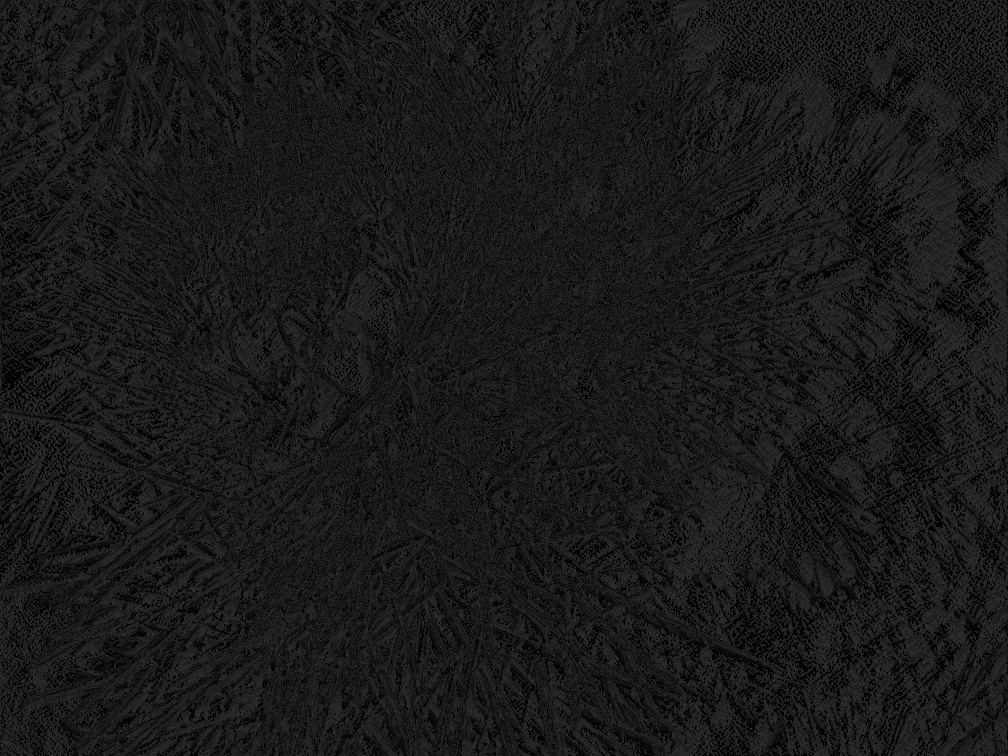
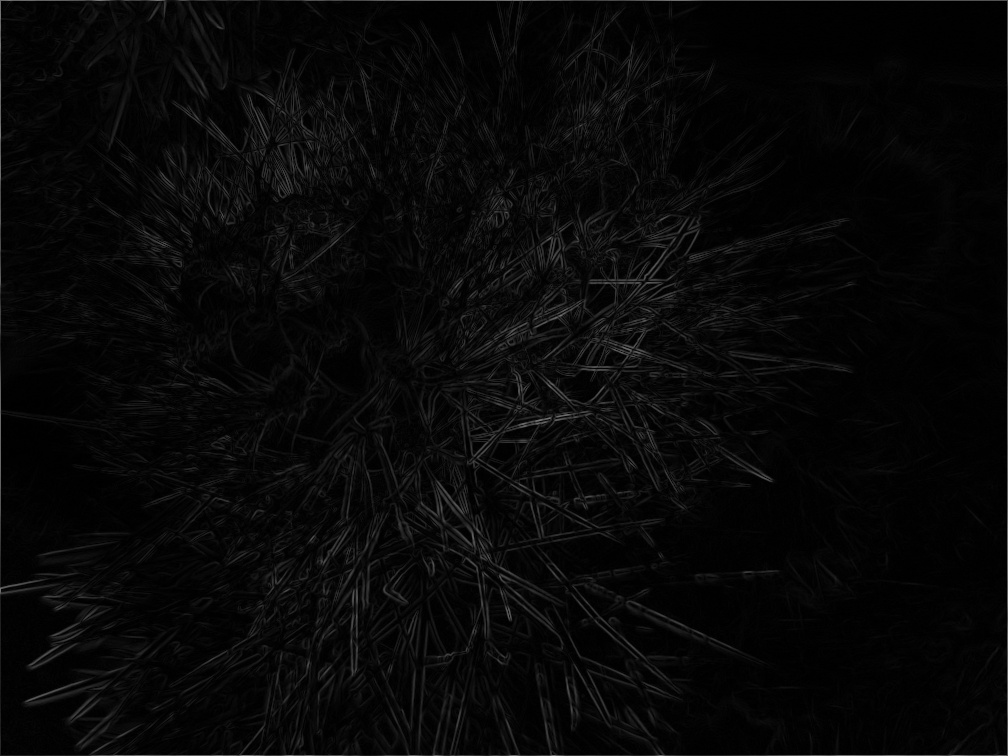
feat: add ex8

diff --git a/homework1/ex8.py b/homework1/ex8.py
@@ -2,29 +2,39 @@ import cv2
 import numpy as np
 import os
 import math
-from ex1 import convolution
+from ex6 import sobel_image
+from ex7 import bilinear_interpolation
 os.chdir('C:\\Projects\\ITS8030\\homework1')
 """
 Task 8: Finding edge peaks
-
-Implement the function
-find_peaks_image(image : np.ndarray, thres : float, in_place : bool = False) -> np.ndarray
-to find the peaks of edge responses perpendicular to the edges. The edge magnitude and orientation
-at each pixel are to be computed using the Sobel operators. The original image is again converted
-into grayscale in the starter code. A peak response is found by comparing a pixel's edge magnitude
-to that of the two samples perpendicular to the edge at a distance of one pixel, which requires the
-bilinear_interpolation function
-(Hint: You need to create an image of magnitude values at each pixel to send as input to the
-interpolation function).
-If the pixel's edge magnitude is e and those of the other two are e1 and e2, e must be larger than
-"thres" (threshold) and also larger than or equal to e1 and e2 for the pixel to be a peak response.
-Assign the peak responses a value of 255 and everything else 0. Compute e1 and e2 as follows:
-
-(please check the separate task8.pdf)
-
-To do: Find the peak responses in "virgintrains.jpg" with thres = 40.0 and save as "task8.png".
-What would be a better value for thres?
 """
-def find_peaks_image(image : np.ndarray, thres : float, in_place : bool = False) -> np.ndarray :
-    "implement the function here"
-    raise "not implemented yet!"
+def find_peaks_image(image_in, threshold):
+    magnitude, orientation = sobel_image(image_in)
+    image_width = image_in.shape[0]
+    image_height = image_in.shape[1]
+    image_out = np.zeros_like(image_in)
+
+    for x in range(0, image_width):
+        for y in range(0, image_height):
+            theta = orientation[x][y]
+
+            e1x = x + np.cos(theta)
+            e1y = y + np.sin(theta)
+            e2x = x - np.cos(theta)
+            e2y = y - np.sin(theta)
+
+            e1 = bilinear_interpolation(magnitude, e1x, e1y)
+            e2 = bilinear_interpolation(magnitude, e2x, e2y)
+            e = magnitude[x][y]
+
+            if e >= e1 and e >= e2 and e > threshold:
+                image_out[x][y] = 255
+
+    return image_out
+
+def run():
+    img_input = cv2.imread('input\\ex8_input.jpg', cv2.IMREAD_COLOR).astype("float32")
+    img_result = find_peaks_image(img_input, 40).astype("uint8")
+    cv2.imwrite('output/ex8_output.jpg', img_result)
+
+run()

diff --git a/homework1/ex6.py b/homework1/ex6.py
@@ -8,26 +8,28 @@ os.chdir('C:\\Projects\\ITS8030\\homework1')
 Task 6: Edge Detection
 """
 def sobel_image(image):
-    kernelx = np.array([[-1, 0, 1], [-2, 0, 2], [-1, 0, 1]])
-    imagex = convolution(image, kernelx)
-    kernely = np.array([[1, 2, 1], [0, 0, 0], [-1, -2, -1]])
-    imagey = convolution(imagex, kernely)
+    print('Sobel image started..')
+    image = cv2.cvtColor(image, cv2.COLOR_BGR2GRAY)
 
-    imagex = imagex / 8
-    imagey = imagey / 8
+    kernel_x = np.array([[-1, 0, 1], [-2, 0, 2], [-1, 0, 1]])
+    image_x = convolution(image, kernel_x, False)
+    kernel_y = np.array([[-1, -2, -1], [0, 0, 0], [1, 2, 1]])
+    image_y = convolution(image, kernel_y, False)
 
-    magnitude = np.hypot(imagex, imagey)
-    # Adding 0.01 is hack to avoid division by zero error
-    # Multiplying by 100, so image will be visible, not black
-    orientation = np.arctan(imagey / (imagex + 0.01)) * 100
+    image_x /= 8
+    image_y /= 8
 
-    return [magnitude, orientation]
+    magnitude = np.hypot(image_x, image_y)
+    orientation = np.arctan(image_y / image_x) * 128
+    nans = np.isnan(orientation)
+    orientation[nans] = 0
+    return magnitude, orientation
 
 # Use
 def run():
-    img_input = cv2.imread('input\\ex6_input.jpg', cv2.IMREAD_GRAYSCALE)
-    img_result = sobel_image(img_input)
-    cv2.imwrite('output/ex6a_output.jpg', img_result[0])
-    cv2.imwrite('output/ex6b_output.jpg', img_result[1])
+    img_input = cv2.imread('input\\ex6_input.jpg', cv2.IMREAD_COLOR).astype("float32")
+    magnitude, orientation = sobel_image(img_input)
+    cv2.imwrite('output/ex6a_output.jpg', magnitude)
+    cv2.imwrite('output/ex6b_output.jpg', orientation)
 
 #run()

diff --git a/homework1/ex7.py b/homework1/ex7.py
@@ -7,19 +7,21 @@ os.chdir('C:\\Projects\\ITS8030\\homework1')
 Task 7: Bilinear Interpolation
 """
 def bilinear_interpolation(image, x, y):
-
     if x < 0 or x > image.shape[1] - 1 or y < 0 or y > image.shape[0] - 1:
-        return (255, 255, 255)
-
-    x0 = math.floor(x)
-    x1 = x0 + 1
+        if(len(image.shape) == 3):
+            return (255, 255, 255)
+        else:
+            return 0
+    
     y0 = math.floor(y)
-    y1 = y0 + 1
+    x0 = math.floor(x)
+    x1 = math.ceil(x)
+    y1 = math.ceil(y)
 
-    q11 = image[y0, x0]
-    q12 = image[y1, x0]
-    q21 = image[y0, x1]
-    q22 = image[y1, x1]
+    q11 = image[y0][x0]
+    q12 = image[y0][x1]
+    q21 = image[y1][x0]
+    q22 = image[y1][x1]
 
     wa = (x1-x) * (y1-y)
     wb = (x1-x) * (y-y0)
@@ -45,6 +47,7 @@ def rotate_image(interpolation_fn, image_in, rotation_angle):
             image_out[y][x] = rgb
     return image_out
 
+# Use
 def run():
     img_input = cv2.imread('input\\ex7_input.png', cv2.IMREAD_COLOR)
     img_result = rotate_image(bilinear_interpolation, img_input, 20)
